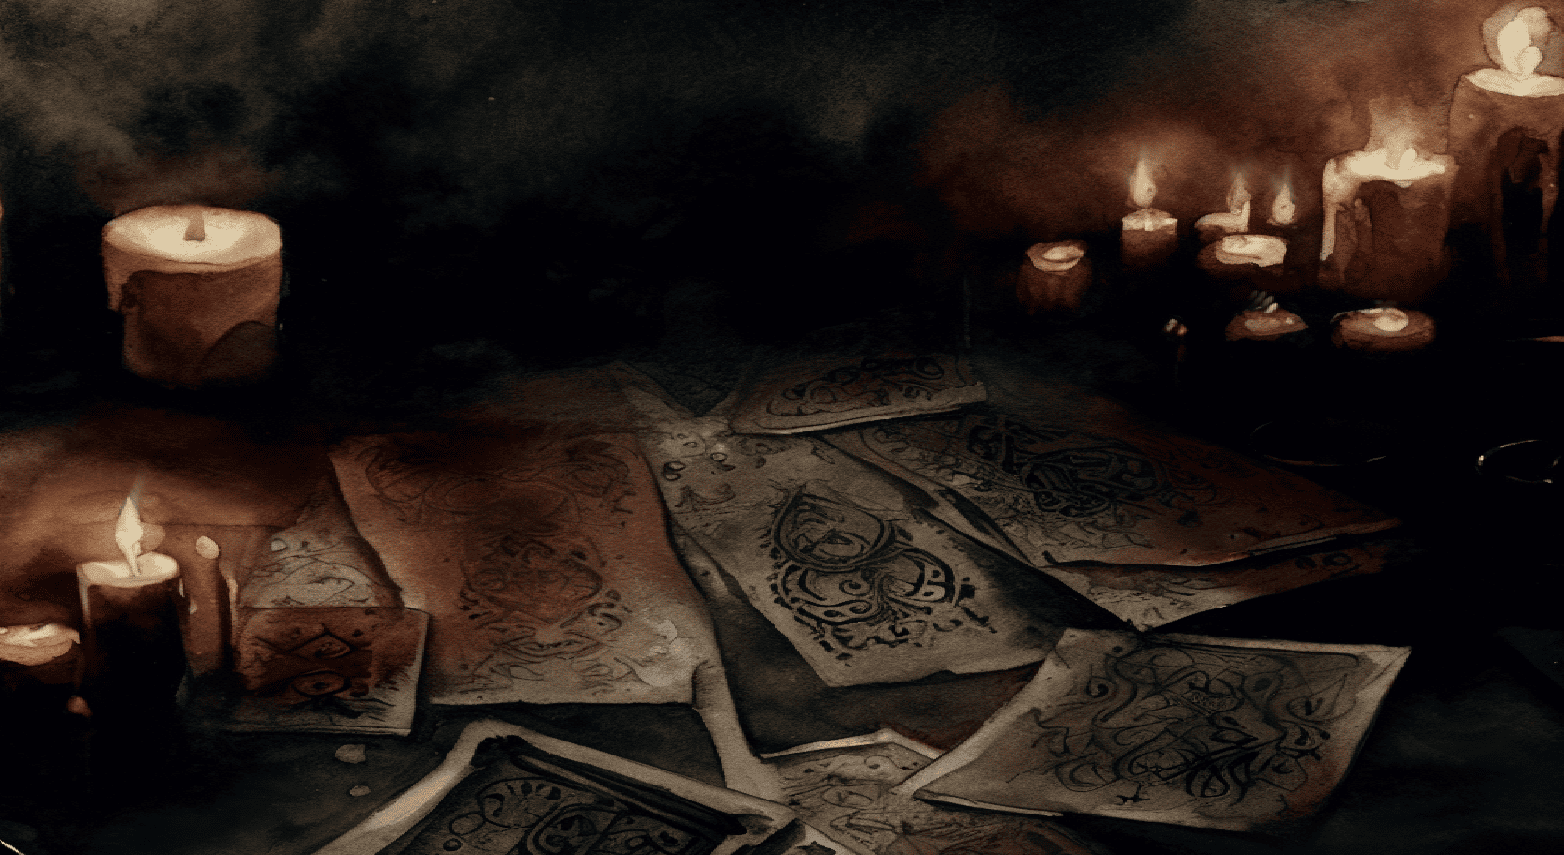
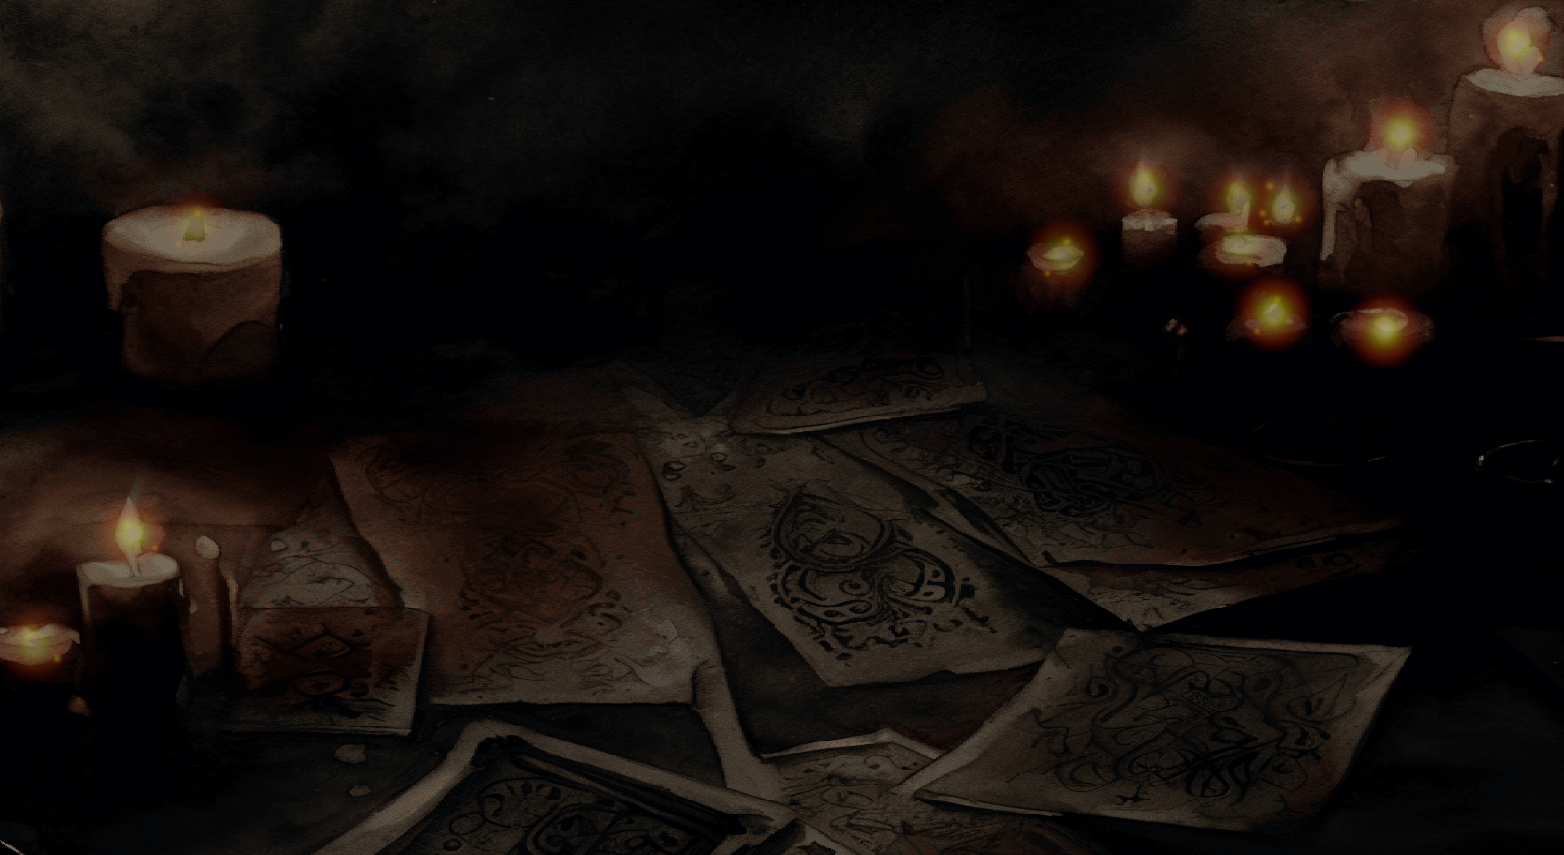
cardEditor

diff --git a/src/main/java/com/cab/states/CardMenu.java b/src/main/java/com/cab/states/CardMenu.java
@@ -369,11 +369,7 @@ private void filterTruhe() {
 		int y = 0;
 
 		//BGs
-		g2.drawImage(gp.imageLoader.animCardEditorBG.get(), 0, 0, gp.screenWidth, gp.screenHeight, null); //background
-
-		g2.setColor(Colors.transparentBlack); 
-		g2.fillRect(0, 0, gp.screenWidth, gp.screenHeight);
-		
+		g2.drawImage(gp.imageLoader.animCardEditorBG.get(), 0, 0, gp.screenWidth, gp.screenHeight, null); //background		
 		g2.drawImage(gp.imageLoader.paper02, filterShakingKoordinaten.getX(), filterShakingKoordinaten.getY(), gp.p(13), gp.p(2.5), null); //FILTER
 		g2.drawImage(gp.imageLoader.paper05, gp.p(11.4), gp.p(3.17), gp.p(2.8), gp.p(1.4), null); //SEITENANZAHL
 		g2.drawImage(gp.imageLoader.paper08, gp.p(29.6), gp.p(8.7), gp.p(2.8), gp.p(1.3), null); //STAPELANZAHL

diff --git a/src/main/java/com/cab/draw/ImageLoader.java b/src/main/java/com/cab/draw/ImageLoader.java
@@ -284,7 +284,7 @@ public class ImageLoader {
 
         book = resourceAsStream("/lexikon/book.png");
 
-        animCardEditorBG = new AnimImage("/bgs/cardEditor/", 9, true, 6);
+        animCardEditorBG = new AnimImage("/bgs/cardEditor/", 9, true, 25);
         animHauptmenuBG = new AnimImage("/bgs/menu/", 5, true, 12);
         animDestroy = new AnimImage("/anim/destroy/", 10, false, 6);
         animDestroy2 = new AnimImage("/anim/destroy/", 10, false, 6);
